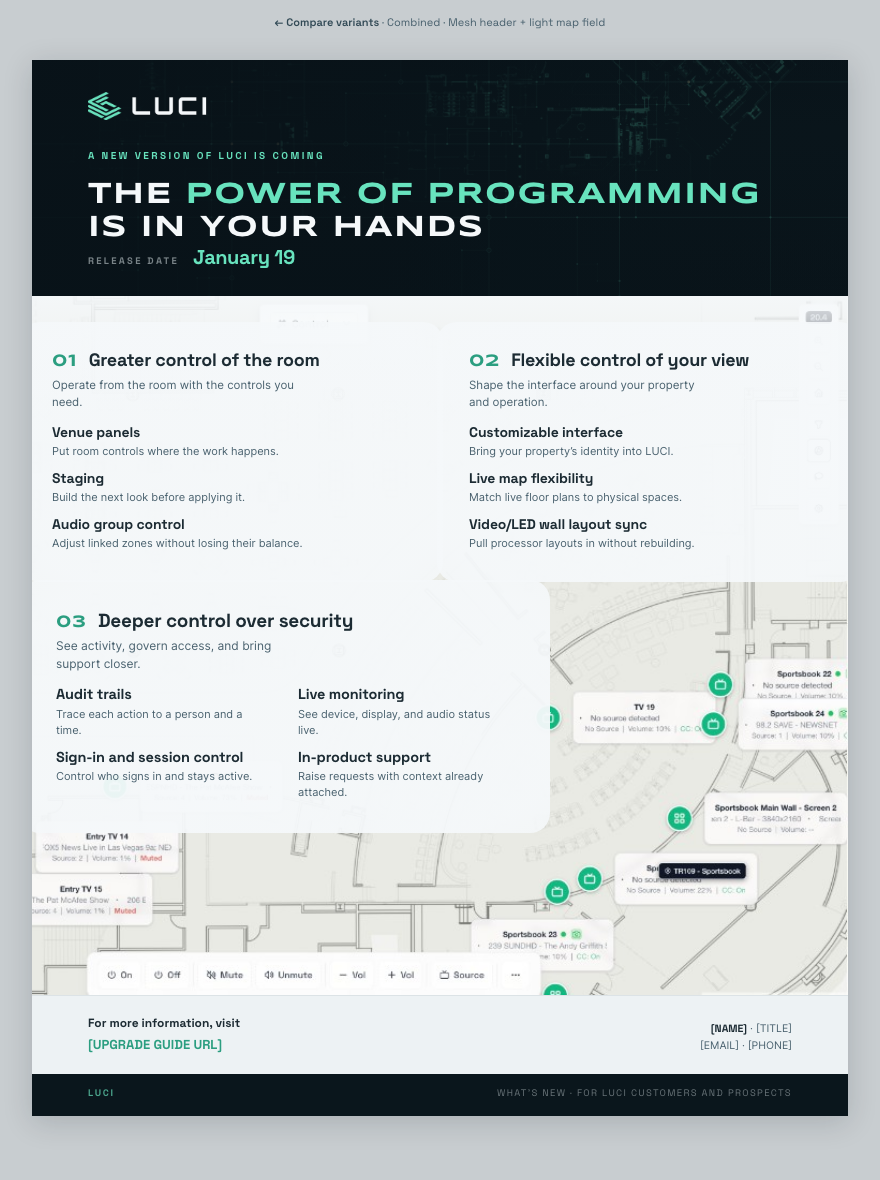
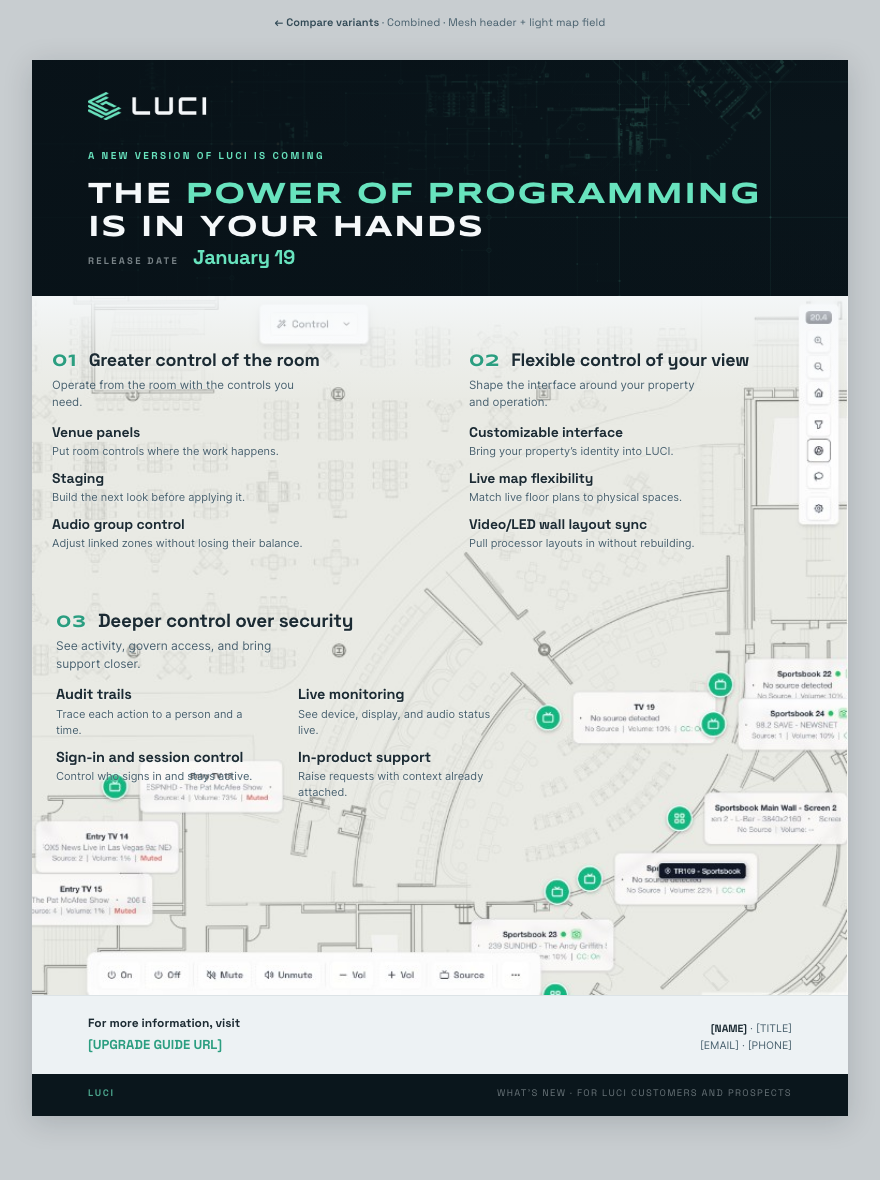
What's New one-pager: map is the true background, no card veil
Removed the diagonal veil entirely — only a top band remains
for the '3 Promises' section label. Card text sits directly on
the map with a subtle light text-shadow for lift instead of any
background fill or veil.

diff --git a/LUCI Systems Design System/ui_kits/sales/new-luci-whats-new-onepager-flow-c.html b/LUCI Systems Design System/ui_kits/sales/new-luci-whats-new-onepager-flow-c.html
@@ -74,8 +74,7 @@ body{font-family:var(--font-body);background:#c8cdd0;color:var(--ink);font-size:
      instead of sitting under them. Clears by mid-field for the backwards L. */
 .field__scrim{position:absolute;inset:0;z-index:1;pointer-events:none;
   background:linear-gradient(to bottom,
-    rgba(245,248,250,0.92) 0%, rgba(245,248,250,0.70) 5%,
-    rgba(245,248,250,0.18) 14%, transparent 22%)}}
+    rgba(245,248,250,0.88) 0%, rgba(245,248,250,0.36) 7%, transparent 15%)}}
 
 .copy{position:relative;z-index:2;height:100%;display:flex;flex-direction:column;
   padding:18px 32px 34px}
@@ -90,12 +89,7 @@ body{font-family:var(--font-body);background:#c8cdd0;color:var(--ink);font-size:
    Translucent so the map shows through — the edge is soft because the
    map reads through the plate, not because of a paper mat. */
 .p{position:relative;color:var(--ink);padding:18px 20px 20px}
-.p::before{content:"";position:absolute;inset:-10px -12px;z-index:0;
-  background:radial-gradient(ellipse 115% 125% at center,
-    rgba(245,248,250,0.95) 50%, rgba(245,248,250,0.78) 68%,
-    rgba(245,248,250,0.36) 86%, transparent 100%);
-  border-radius:20px;pointer-events:none}
-.p__inner{position:relative;z-index:1}
+.p__inner{position:relative;z-index:1;text-shadow:0 1px 2px rgba(245,248,250,0.75)}
 .p:nth-child(3){grid-column:1 / -1;justify-self:start;width:62%;padding:20px 24px 22px}
 
 .p__head{display:flex;align-items:baseline;gap:11px}
